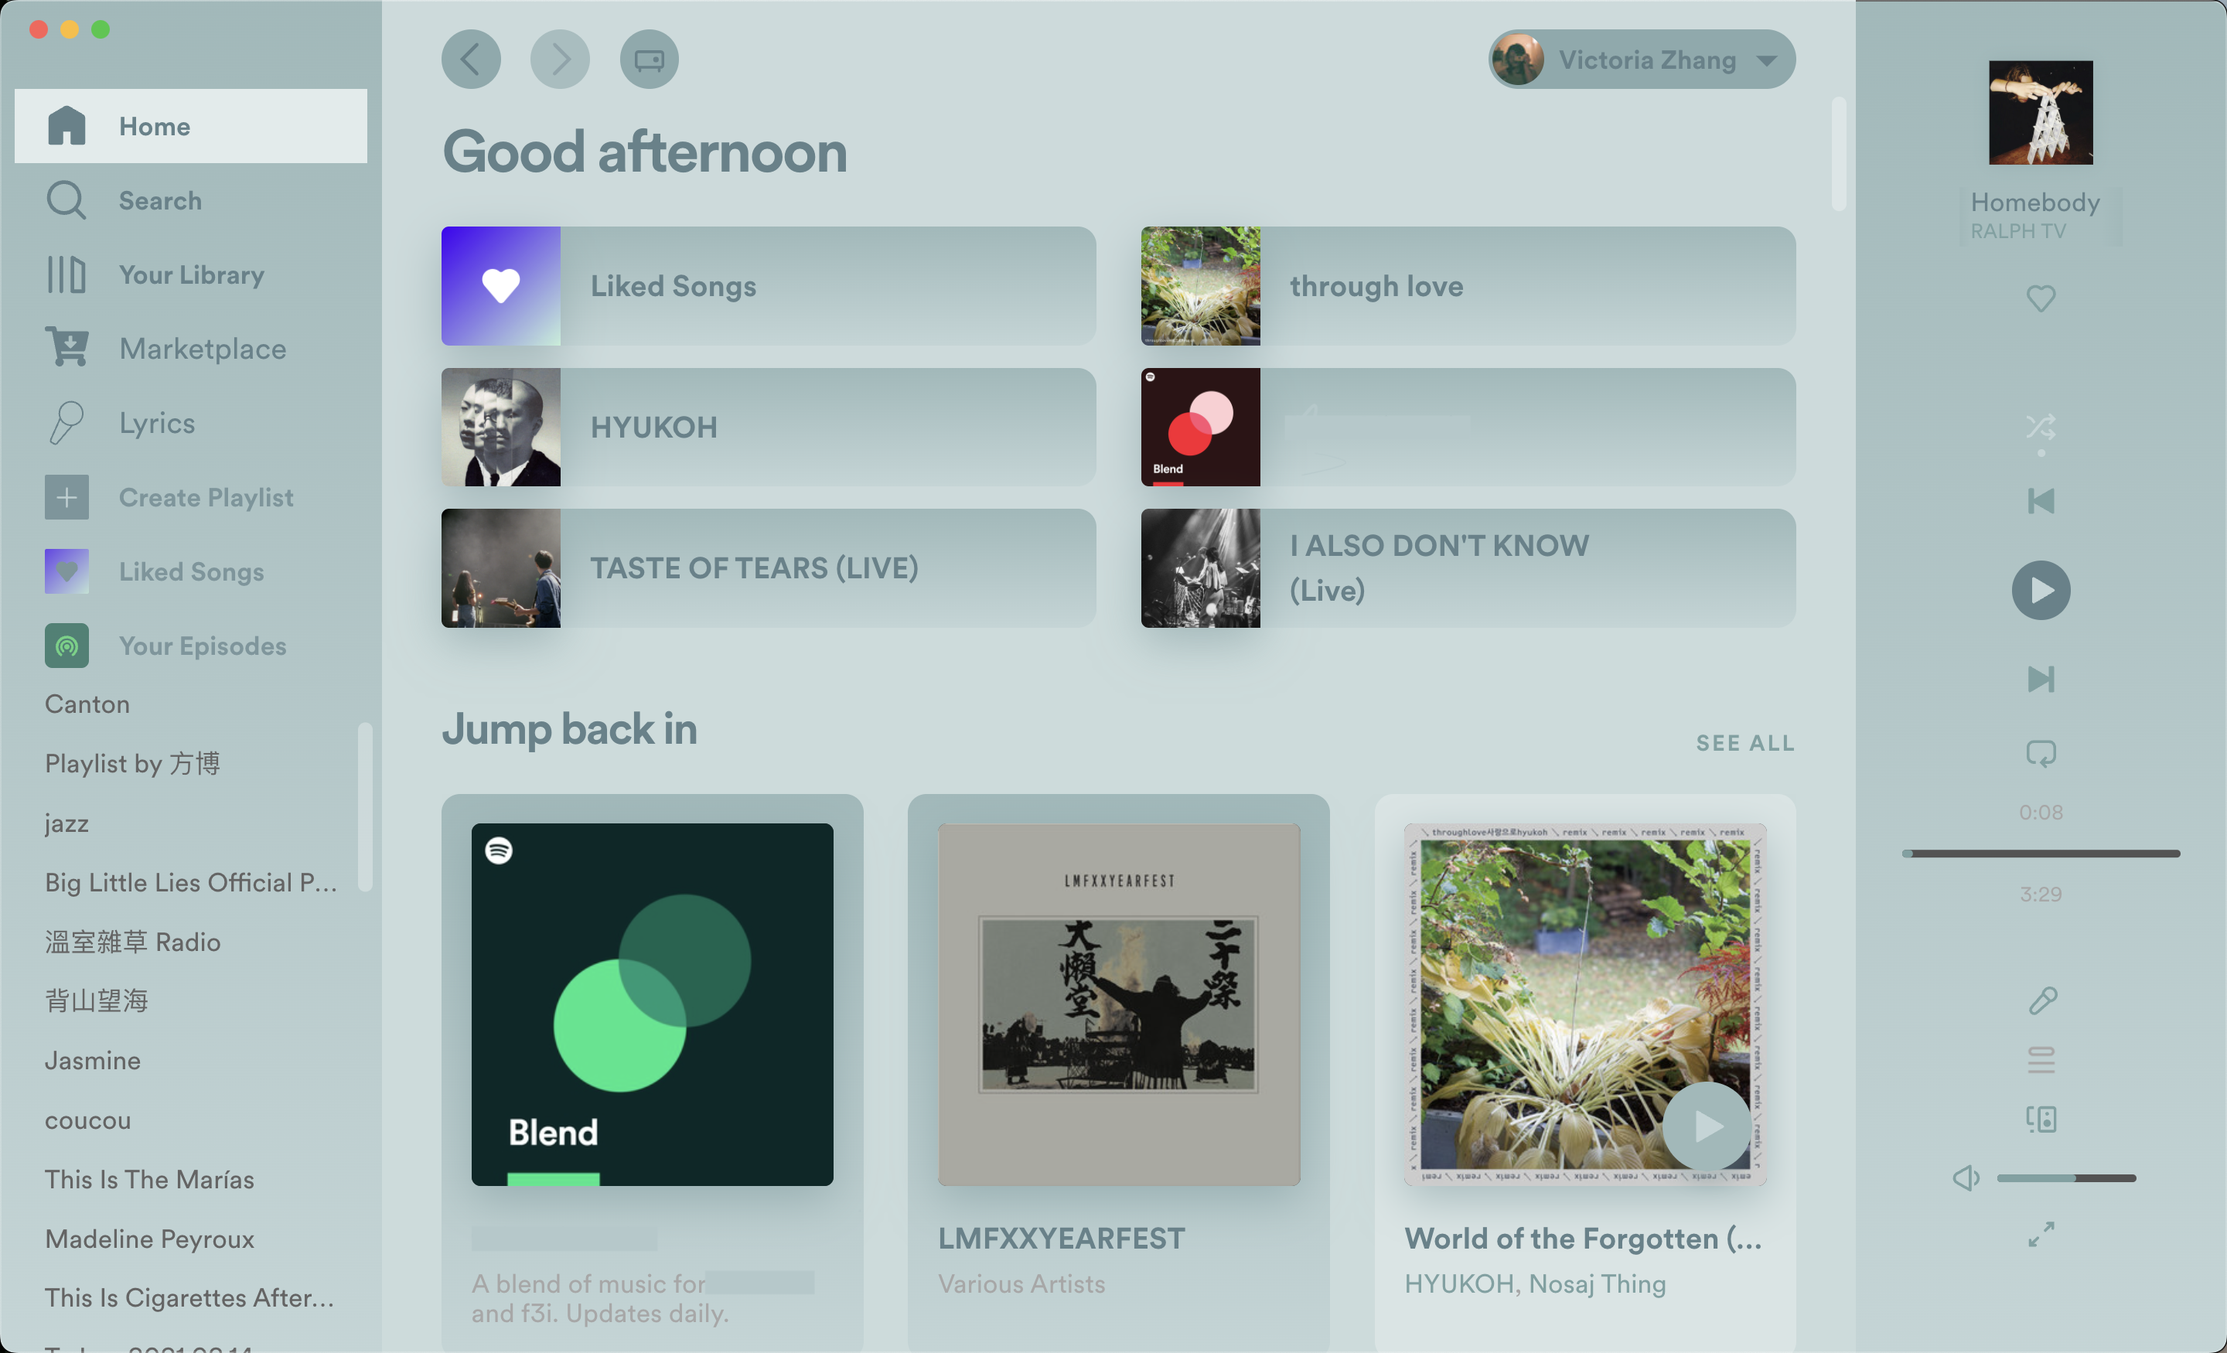
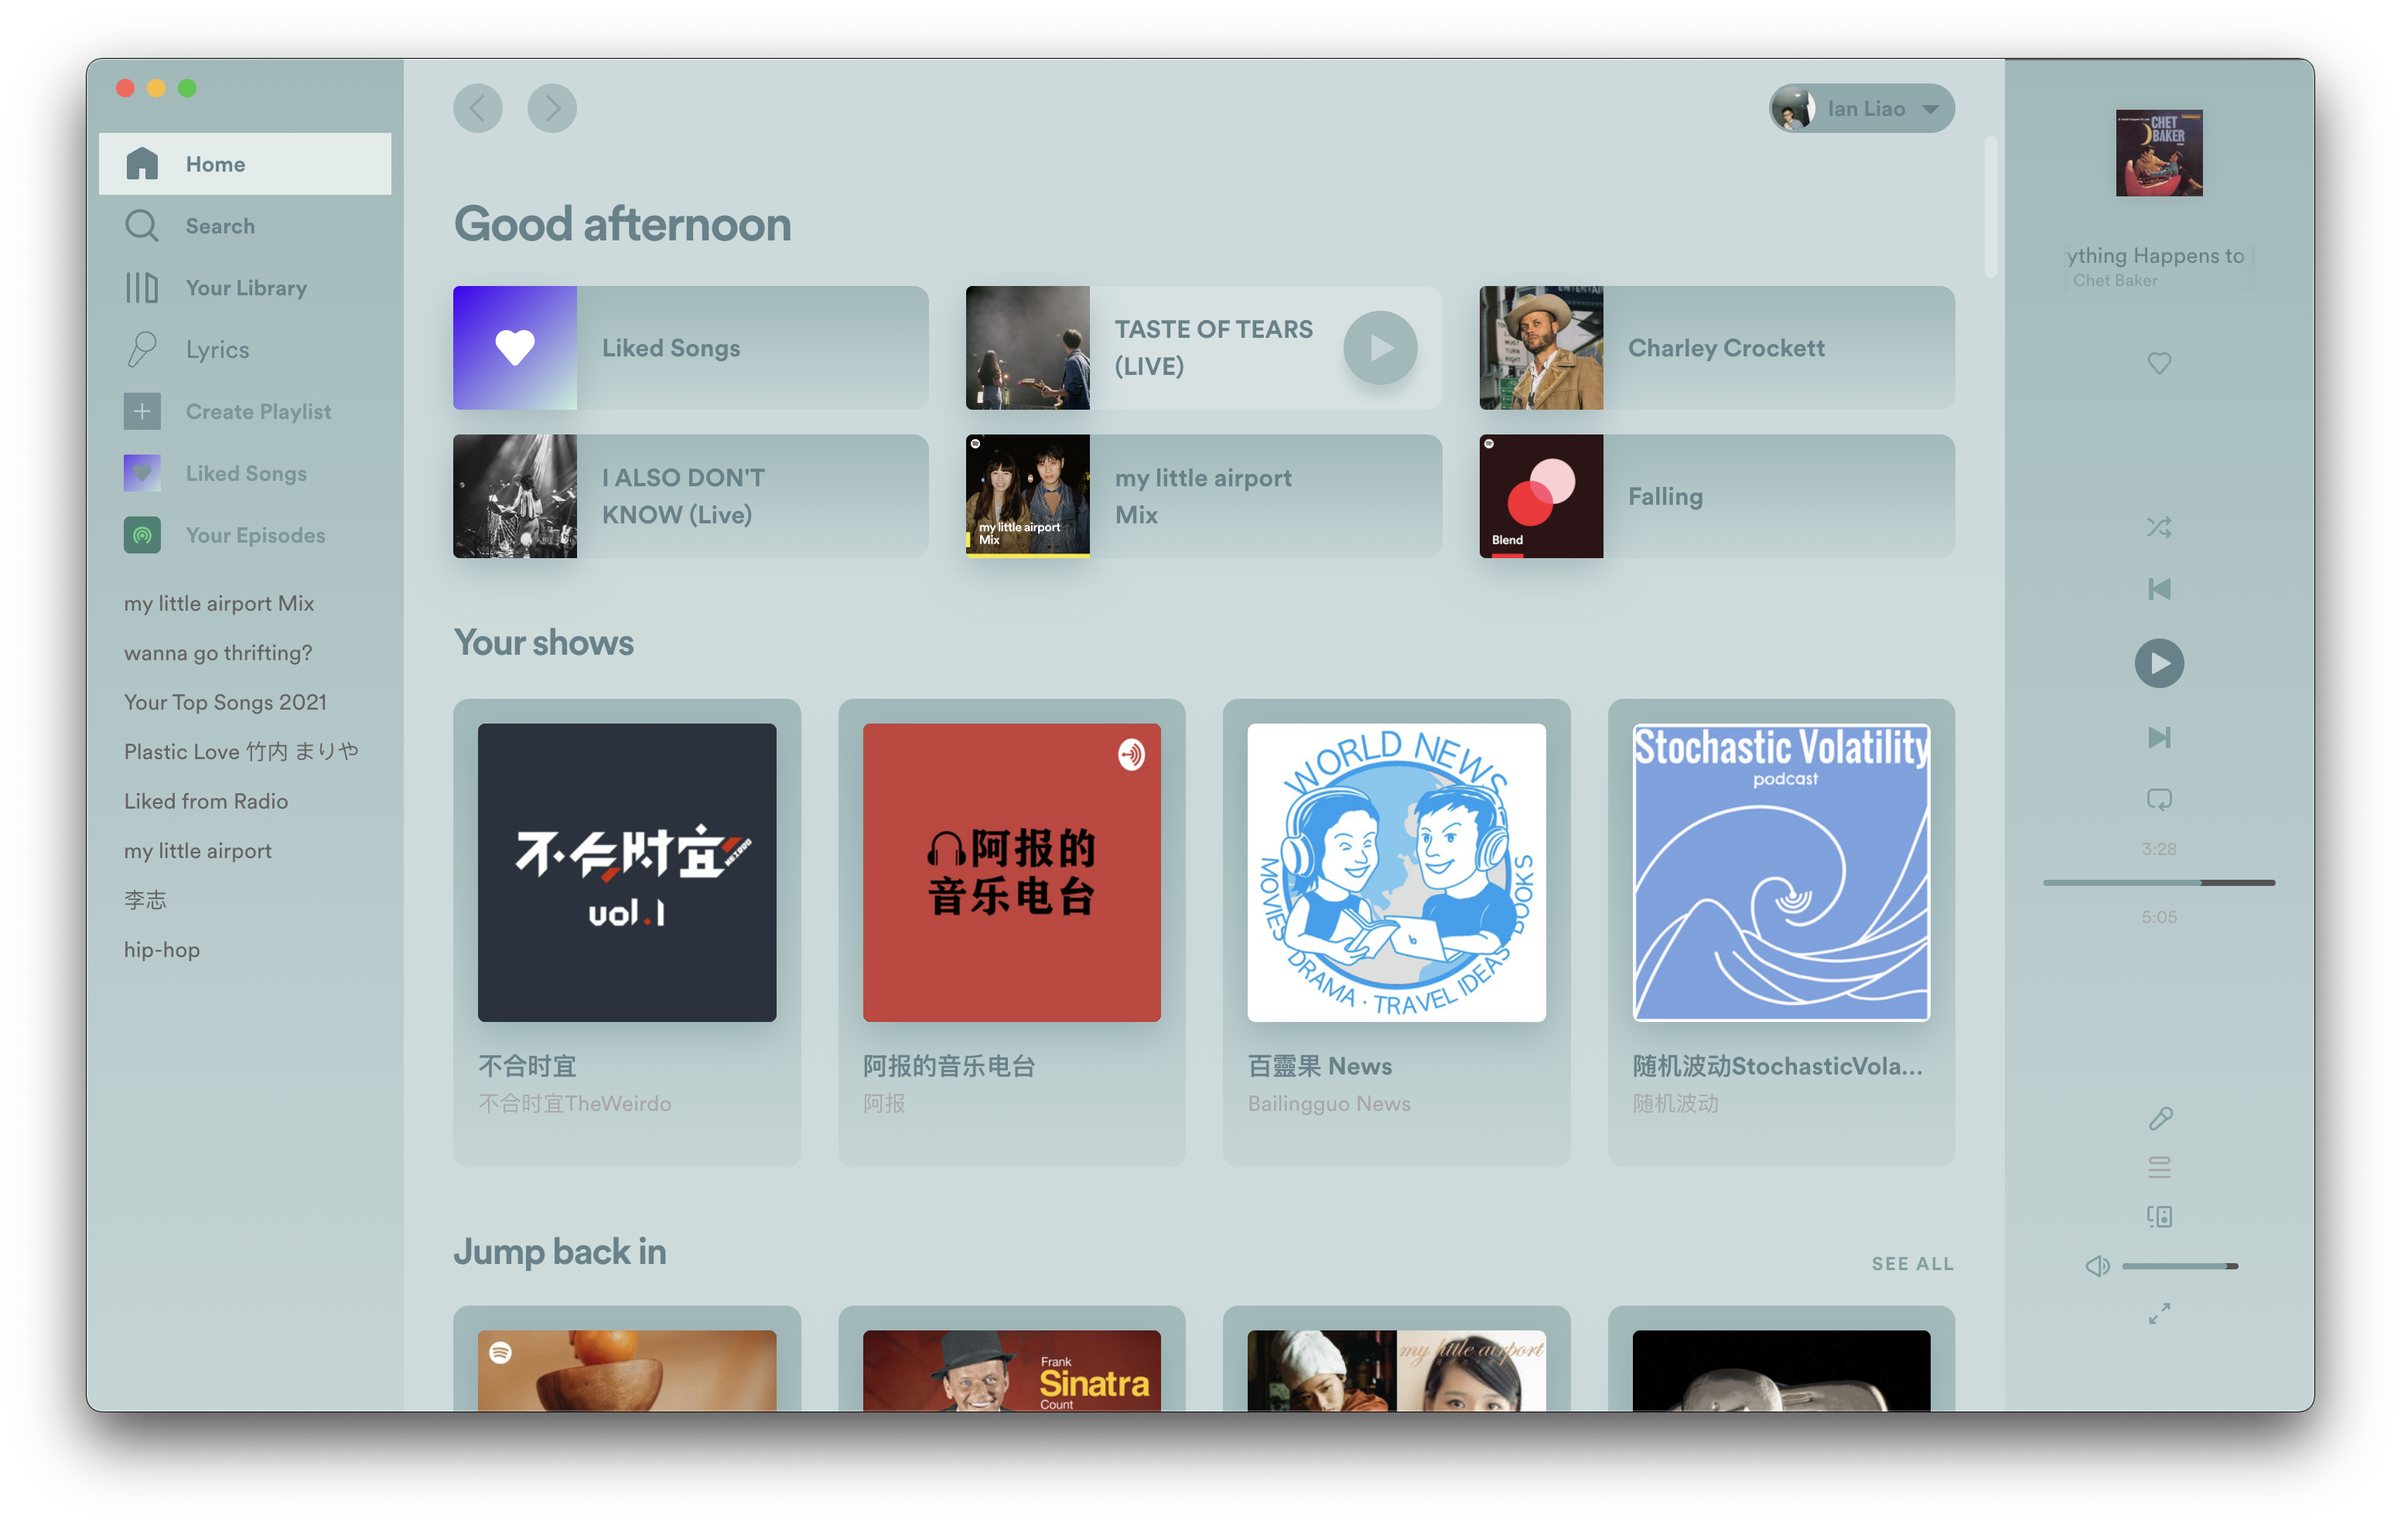
chore(Flow): update README.md, manifast.json, and auto-assign.yml, update the screenshots in Flow theme directory (#755)
* Update README.md

* Update the link of Flow theme

* Update manifest.json for Flow theme

* Update auto-assign.yml for Flow theme

* Update new screenshots

diff --git a/THEMES.md b/THEMES.md
@@ -165,16 +165,16 @@ Here you can find a preview of all the themes. Some of them may have different c
 ## Flow
 
 #### Ocean
-<img src="https://raw.githubusercontent.com/ossd-sp22/spicetify-themes/newTheme/Flow/screenshots/ocean.png" alt="img"> 
+<img src="https://raw.githubusercontent.com/spicetify/spicetify-themes/master/Flow/screenshots/ocean.png" alt="img"> 
 
 
 #### Pink
-<img src="https://raw.githubusercontent.com/ossd-sp22/spicetify-themes/newTheme/Flow/screenshots/pink.png" alt="img"> 
+<img src="https://raw.githubusercontent.com/spicetify/spicetify-themes/master/Flow/screenshots/pink.png" alt="img"> 
 
 
 #### Silver
-<img src="https://github.com/ossd-sp22/spicetify-themes/blob/newTheme/Flow/screenshots/silver.png" alt="img"> 
+<img src="https://raw.githubusercontent.com/spicetify/spicetify-themes/master/Flow/screenshots/silver.png" alt="img"> 
 
 
 #### Violet
-<img src="https://raw.githubusercontent.com/ossd-sp22/spicetify-themes/newTheme/Flow/screenshots/violet.png" alt="img"> 
+<img src="https://raw.githubusercontent.com/spicetify/spicetify-themes/master/Flow/screenshots/violet.png" alt="img"> 

diff --git a/Flow/README.md b/Flow/README.md
@@ -3,19 +3,19 @@
 ## Screenshots
 
 ### Ocean
-<img src="https://raw.githubusercontent.com/ossd-sp22/spicetify-themes/newTheme/Flow/screenshots/ocean.png" alt="img"> 
+<img src="https://raw.githubusercontent.com/spicetify/spicetify-themes/master/Flow/screenshots/ocean.png" alt="img"> 
 
 
 ### Pink
-<img src="https://raw.githubusercontent.com/ossd-sp22/spicetify-themes/newTheme/Flow/screenshots/pink.png" alt="img"> 
+<img src="https://raw.githubusercontent.com/spicetify/spicetify-themes/master/Flow/screenshots/pink.png" alt="img"> 
 
 
 ### Silver
-<img src="https://github.com/ossd-sp22/spicetify-themes/blob/newTheme/Flow/screenshots/silver.png" alt="img"> 
+<img src="https://raw.githubusercontent.com/spicetify/spicetify-themes/master/Flow/screenshots/silver.png" alt="img"> 
 
 
 ### Violet
-<img src="https://raw.githubusercontent.com/ossd-sp22/spicetify-themes/newTheme/Flow/screenshots/violet.png" alt="img"> 
+<img src="https://raw.githubusercontent.com/spicetify/spicetify-themes/master/Flow/screenshots/violet.png" alt="img"> 
 
 ## Author
 Made by:
